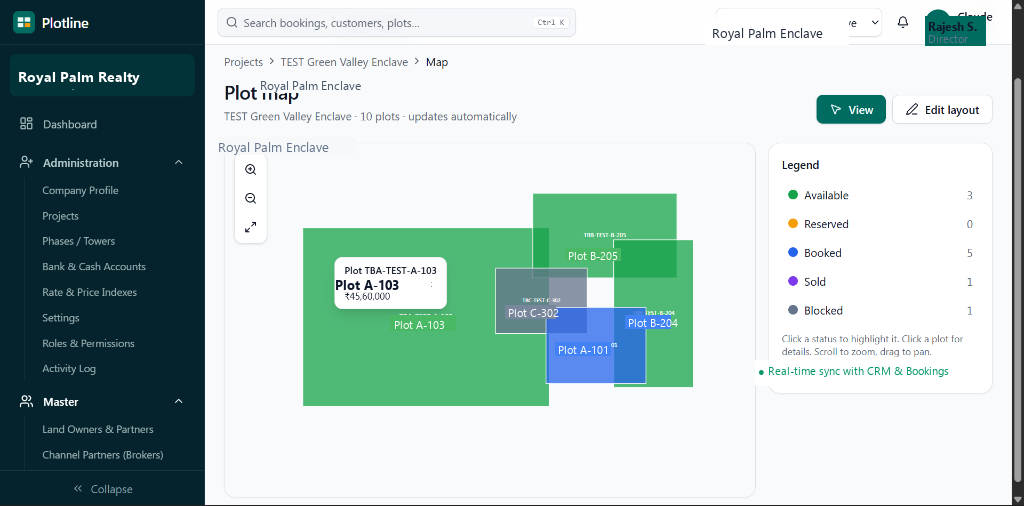
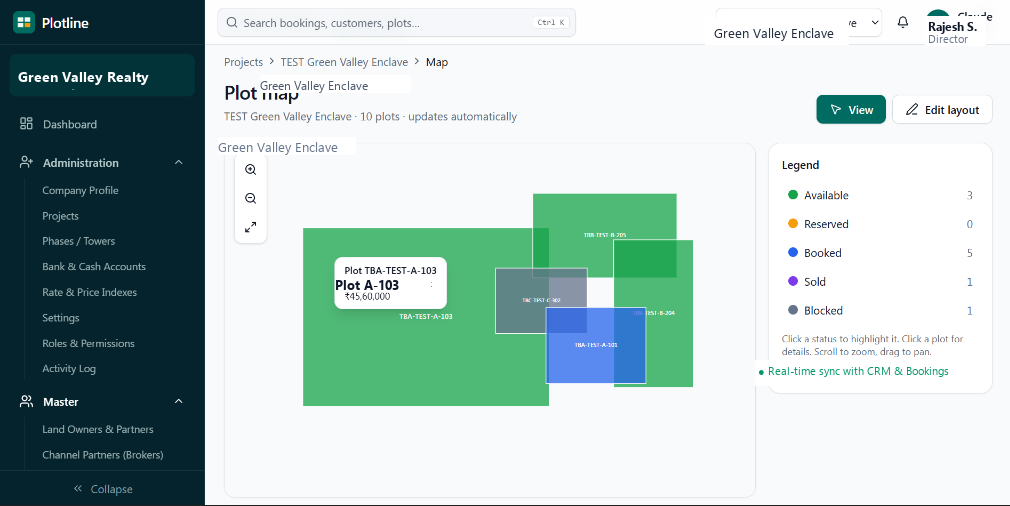
fix: remove right scrollbar, keep original green valley name, and remove pasted floating badges

diff --git a/src/components/HeroSection.tsx b/src/components/HeroSection.tsx
@@ -1,12 +1,12 @@
 import React from 'react';
 import Link from 'next/link';
-import { 
-  Building2, 
-  MapPin, 
-  ShieldCheck, 
-  ArrowRight, 
-  CheckCircle2, 
-  Phone, 
+import {
+  Building2,
+  MapPin,
+  ShieldCheck,
+  ArrowRight,
+  CheckCircle2,
+  Phone,
   Calendar,
   Sparkles,
   TrendingUp,
@@ -23,17 +23,11 @@ export function HeroSection() {
       <div className="mx-auto max-w-7xl px-4 sm:px-6 lg:px-8">
         {/* 2-Column Responsive Hero Grid */}
         <div className="grid grid-cols-1 lg:grid-cols-12 gap-10 lg:gap-8 items-center">
-          
+
           {/* Left Column: Heading, Value Proposition & CTAs (Smooth Entrance from Left) */}
           <div className="lg:col-span-6 flex flex-col items-start text-left animate-hero-left">
-            
-            {/* Top Category Tag */}
-            <div className="inline-flex items-center gap-2 rounded-full border border-teal-200 bg-teal-50/80 px-3.5 py-1 text-xs font-semibold text-teal-900 mb-4 shadow-sm">
-              <span className="flex h-2 w-2 rounded-full bg-emerald-500 animate-pulse" />
-              <span>India&apos;s #1 Real Estate ERP</span>
-              <span className="text-teal-400">•</span>
-              <span className="text-teal-700">Plotted Colonies &amp; Townships</span>
-            </div>
+
+
 
             {/* Main H1 Title in Poppins, ~40px scale */}
             <h1 className="text-3xl sm:text-4xl lg:text-[40px] font-semibold text-slate-800 leading-normal sm:leading-relaxed lg:leading-[1.38]">
@@ -120,10 +114,10 @@ export function HeroSection() {
 
           {/* Right Column: Real Product Preview (Smooth Entrance from Right) */}
           <div className="lg:col-span-6 relative animate-hero-right">
-            
+
             {/* Browser Window Frame Wrapper */}
             <div className="rounded-2xl border border-slate-200/90 bg-white p-2 sm:p-2.5 shadow-2xl shadow-slate-900/10 transition-transform hover:scale-[1.015] duration-300">
-              
+
               {/* Window Title Bar */}
               <div className="flex items-center justify-between rounded-t-xl bg-slate-100/90 px-3 py-2 border-b border-slate-200 text-xs text-slate-500">
                 <div className="flex items-center gap-1.5">
@@ -179,28 +173,28 @@ export function HeroSection() {
 
         {/* 4 Bottom Micro-Metrics Bar (Staggered Entrance on Load) */}
         <div className="mt-12 sm:mt-16 grid grid-cols-2 lg:grid-cols-4 gap-3 sm:gap-4">
-          <div 
+          <div
             className="rounded-xl border border-slate-200/80 bg-white p-4 shadow-sm animate-hero-up hover:-translate-y-1 hover:shadow-md transition-all duration-300"
             style={{ animationDelay: '850ms' }}
           >
             <div className="text-xl sm:text-2xl font-semibold text-slate-800">100%</div>
             <div className="text-xs font-medium text-slate-600 mt-0.5">RERA &amp; GST Audit-Ready Invoicing</div>
           </div>
-          <div 
+          <div
             className="rounded-xl border border-slate-200/80 bg-white p-4 shadow-sm animate-hero-up hover:-translate-y-1 hover:shadow-md transition-all duration-300"
             style={{ animationDelay: '1000ms' }}
           >
             <div className="text-xl sm:text-2xl font-semibold text-[#0d9488]">4.5x</div>
             <div className="text-xs font-medium text-slate-600 mt-0.5">Faster Installment Collection Recovery</div>
           </div>
-          <div 
+          <div
             className="rounded-xl border border-slate-200/80 bg-white p-4 shadow-sm animate-hero-up hover:-translate-y-1 hover:shadow-md transition-all duration-300"
             style={{ animationDelay: '1150ms' }}
           >
             <div className="text-xl sm:text-2xl font-semibold text-emerald-600">0%</div>
             <div className="text-xs font-medium text-slate-600 mt-0.5">Double-Booking Risk (Atomic Unit Lock)</div>
           </div>
-          <div 
+          <div
             className="rounded-xl border border-slate-200/80 bg-white p-4 shadow-sm animate-hero-up hover:-translate-y-1 hover:shadow-md transition-all duration-300"
             style={{ animationDelay: '1300ms' }}
           >

diff --git a/src/components/InteractivePlotMapPreview.tsx b/src/components/InteractivePlotMapPreview.tsx
@@ -27,7 +27,7 @@ export function InteractivePlotMapPreview() {
             <MapPin className="h-3.5 w-3.5 text-teal-600" />
             <span>Interactive Vector Layout Engine</span>
           </span>
-          <h2 className="text-2xl sm:text-3xl lg:text-[36px] font-semibold text-slate-800 leading-normal sm:leading-relaxed lg:leading-[1.38]">
+          <h2 className="text-2xl sm:text-3xl lg:text-[36px] font-semibold text-slate-800 leading-normal sm:leading-relaxed lg:leading-[1.45]">
             Live Colony Layout Map with 0% Double-Booking Lock
           </h2>
           <p className="mt-3.5 text-sm sm:text-base text-slate-600 leading-relaxed font-normal">
@@ -72,9 +72,9 @@ export function InteractivePlotMapPreview() {
               {/* Authentic Product Screenshot (Real App UI Cleaned) */}
               <div className="relative overflow-hidden bg-slate-100">
                 <img
-                  src="/screenshots/real-plot-map-authentic.png"
+                  src="/screenshots/real-plot-map-clean-final.png"
                   alt="Plotline ERP Live Interactive Colony Plot Layout Map Interface"
-                  className="w-full h-auto object-cover group-hover:scale-[1.01] transition-transform duration-500"
+                  className="w-full h-auto object-cover"
                   loading="lazy"
                 />
               </div>

diff --git a/src/components/SoftwareScreenshotsGallery.tsx b/src/components/SoftwareScreenshotsGallery.tsx
@@ -65,7 +65,7 @@ const SCREENSHOT_TABS = [
     tag: 'Interactive Vector Map',
     subtitle: 'Live interactive plot availability layout map with color-coded unit statuses',
     icon: MapPin,
-    image: '/screenshots/real-plot-map-authentic.png',
+    image: '/screenshots/real-plot-map-clean-final.png',
     points: [
       'Color-coded plot availability: Available (Green), Reserved (Yellow), and Booked (Red).',
       'Direct upload and rendering of vector SVG layout maps exported from AutoCAD or Town Planning.',
